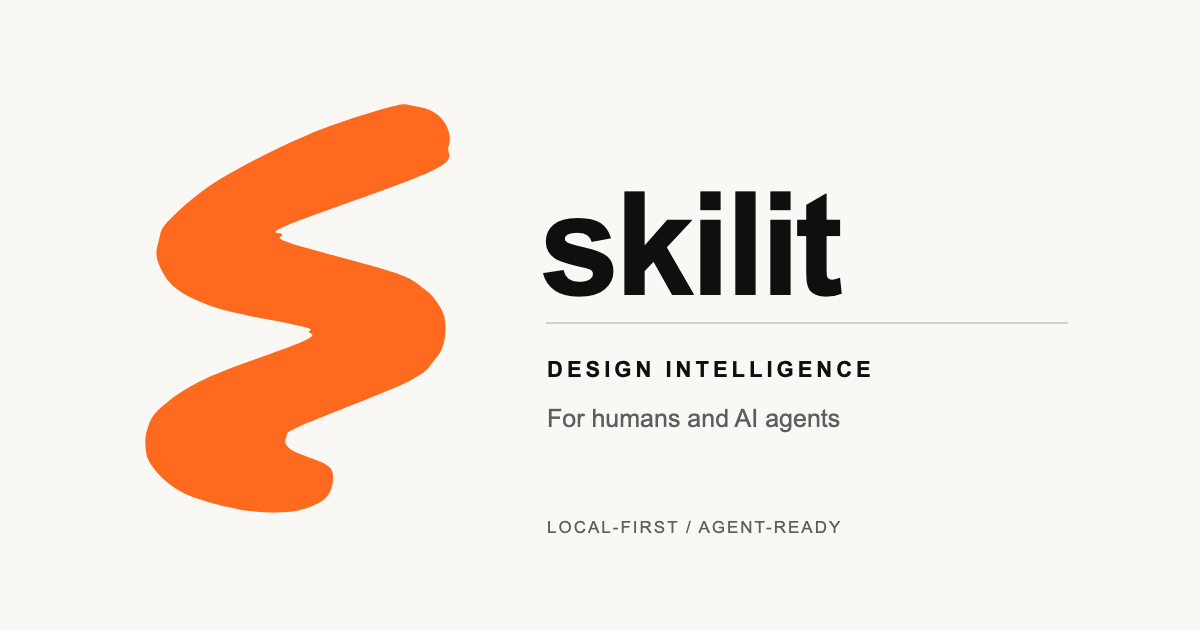
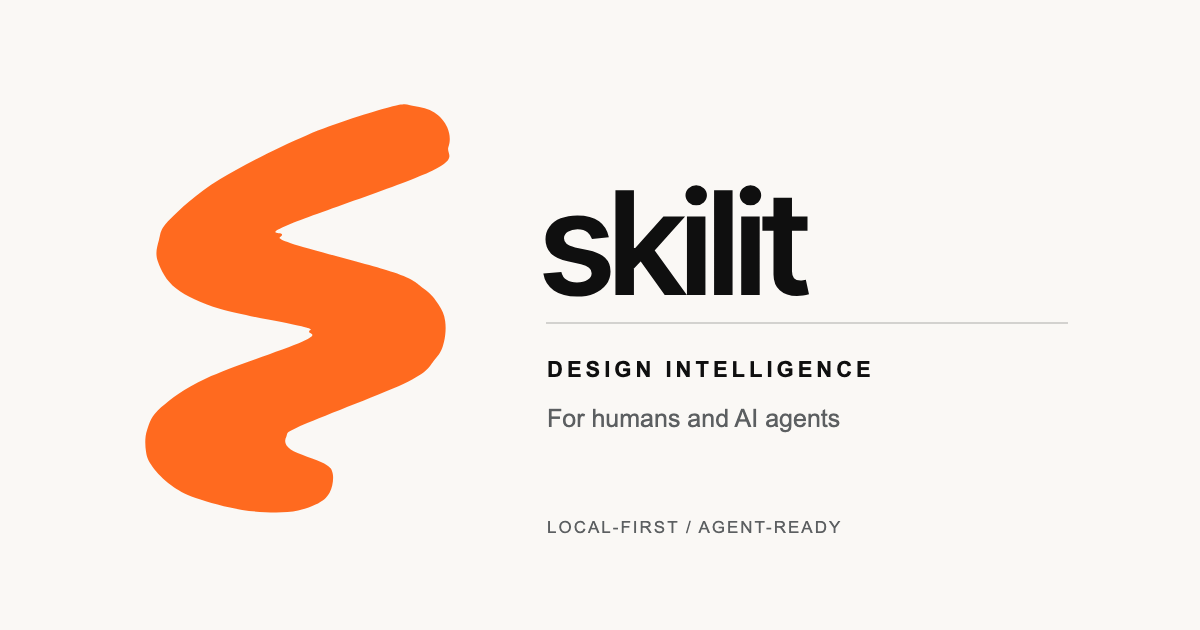
feat(brand): pin offline Inter Tight wordmark with licensed vector outlines

Changed region(s): [[0.4625, 0.3016, 0.7092, 0.4825]]

diff --git a/apps/web/app/globals.css b/apps/web/app/globals.css
@@ -1,3 +1,10 @@
+@font-face {
+  font-family: "Inter Tight Skilit";
+  src: url("/brand/inter-tight-latin-600.woff2") format("woff2");
+  font-style: normal;
+  font-weight: 600;
+  font-display: swap;
+}
 :root {
   color-scheme: light;
   --sk-ink: #0f0f0f;
@@ -26,7 +33,7 @@ button, input, select, textarea { font: inherit; }
   position: sticky; top: 0; height: 100vh; z-index: 4;
 }
 .sk-sidebar-head { padding: 4px 12px 34px; }
-.sk-brand { display: inline-flex; align-items: center; gap: 9px; text-decoration: none; color: #fbfaf7; font-size: 26px; letter-spacing: -.065em; font-weight: 650; }
+.sk-brand { font-family: "Inter Tight Skilit", -apple-system, BlinkMacSystemFont, "Segoe UI", sans-serif; display: inline-flex; align-items: center; gap: 9px; text-decoration: none; color: #fbfaf7; font-size: 26px; letter-spacing: -.065em; font-weight: 600; }
 .sk-brand-symbol { display: grid; place-items: center; width: 34px; height: 44px; flex: 0 0 34px; }
 .sk-brand-symbol img { object-fit: contain; }
 .sk-brand-caption { display: block; font-size: 9px; font-weight: 650; letter-spacing: .17em; color: #8e9096; margin: 16px 0 0 43px; white-space: nowrap; }
@@ -92,7 +99,7 @@ button, input, select, textarea { font: inherit; }
 .sk-principle-foot span { display: inline-flex; align-items: center; gap: 7px; font-size: 11px; font-weight: 650; color: #5c5e5f; }
 
 .sk-tool-section, .sk-workflow-section { padding-top: 52px; }
-.sk-section-heading { display: flex; justify-content: space-between; align-items: end; gap: 20px; margin-bottom: 23px; }
+.sk-section-heading { display: flex; justify-content: space-between; align-items: flex-end; gap: 20px; margin-bottom: 23px; }
 .sk-section-heading h2 { font-size: clamp(25px, 2.4vw, 36px); font-weight: 650; letter-spacing: -.05em; margin: 10px 0 8px; }
 .sk-section-heading p { font-size: 13px; color: #666460; line-height: 1.7; margin: 0; }
 .sk-section-counter { font-size: 10px; color: #64615e; font-weight: 750; letter-spacing: .12em; white-space: nowrap; }
@@ -189,7 +196,7 @@ button, input, select, textarea { font: inherit; }
   color: #62605d; font-size: 13px; line-height: 1.7;
 }
 .sk-page-content > main:not(.sk-dashboard) > section :is(form) {
-  display: flex; flex-wrap: wrap; gap: 12px; align-items: end; margin: 14px 0;
+  display: flex; flex-wrap: wrap; gap: 12px; align-items: flex-end; margin: 14px 0;
 }
 .sk-page-content > main:not(.sk-dashboard) > section :is(input, select, textarea) {
   min-height: 41px;

diff --git a/scripts/generate_skilit_brand.py b/scripts/generate_skilit_brand.py
@@ -6,8 +6,11 @@ reference on 2026-10-17. The points below are editable vector source data,
 not a reference to an external branding library.
 """
 from pathlib import Path
+import json
 
 ROOT = Path(__file__).resolve().parents[1]
+WORDMARK = json.loads((ROOT / "docs/brand/wordmark-inter-tight-600.json").read_text())
+WORDMARK_PATH = WORDMARK["path"]
 PUBLIC = ROOT / "apps/web/public/brand"
 PUBLIC.mkdir(parents=True, exist_ok=True)
 
@@ -58,8 +61,8 @@ for name, background, mark, text_color in [
     children = (
         f'<rect width="1024" height="384" fill="{background}"/>\n'
         f'<path d="{PATH}" transform="translate(126 78) scale(.60)" fill="{mark}"/>\n'
-        f'<text x="364" y="241" font-family="Arial, Helvetica, sans-serif" '
-        f'font-size="144" font-weight="600" letter-spacing="-5" fill="{text_color}">skilit</text>'
+        f'<path d="{WORDMARK_PATH}" transform="translate(364 241)" '
+        f'data-wordmark="skilit" fill="{text_color}"/>'
     )
     (PUBLIC / name).write_text(svg("0 0 1024 384", children, "Skilit logo"))
 
@@ -79,8 +82,8 @@ for name, background, mark, foreground, secondary in [
     children = (
         f'<rect width="1200" height="630" fill="{background}"/>\n'
         f'<path d="{PATH}" transform="translate(146 106) scale(1.08)" fill="{mark}"/>\n'
-        f'<text x="540" y="295" font-family="Arial, Helvetica, sans-serif" '
-        f'font-size="144" font-weight="600" letter-spacing="-5" fill="{foreground}">skilit</text>\n'
+        f'<path d="{WORDMARK_PATH}" transform="translate(540 295)" '
+        f'data-wordmark="skilit" fill="{foreground}"/>\n'
         f'<rect x="546" y="322" width="522" height="2" fill="{foreground}" opacity=".16"/>\n'
         f'<text x="547" y="377" font-family="Arial, Helvetica, sans-serif" '
         f'font-size="22" font-weight="700" letter-spacing="4" fill="{foreground}">DESIGN INTELLIGENCE</text>\n'

diff --git a/docs/brand/IDENTITY.md b/docs/brand/IDENTITY.md
@@ -86,11 +86,21 @@ not alternative brand colors. Use the orange accent sparingly.
 
 ## Typography and responsive behavior
 
-- The approved image proposes Inter Tight. A final embedded/distributable font must
-  be verified against its license and tested offline before claiming it is
-  implemented; no network font fetch or unverified font file is permitted.
-- Current vector lockups use a deterministic system-compatible sans-serif
-  fallback with deliberately tuned weight, size and tracking.
+- The lowercase wordmark is now drawn from **Inter Tight 600** at a pinned source
+  commit, with fixed SVG outlines in both official lockups and social previews;
+  rendering does not depend on installed system fonts or network requests.
+- The sidebar wordmark uses a tiny local Latin WOFF2 subset
+  (`apps/web/public/brand/inter-tight-latin-600.woff2`) with system fallback.
+  This is a locally hosted asset, not a Google Fonts web request.
+- `docs/brand/wordmark-inter-tight-600.json` records the original immutable
+  `google/fonts` commit and SHA-256 hashes, 600 weight, tracking and path data.
+  SIL OFL 1.1 and copyright are preserved (trailing spaces normalized) at
+  `docs/brand/licenses/Inter-Tight-OFL.txt`; the upstream is also pinned in
+  `UPSTREAMS.lock.yml`. The generated outline is a font derivative and remains
+  governed by the original font license. Trademarks are not transferred.
+- Both social PNGs are regenerated by `node scripts/render_skilit_social.mjs`
+  and carry the SHA-256 of their corresponding SVG. The Node contract test
+  verifies the hash to catch stale previews (not a pixel-level attestation).
 - The actual visual wordmark must be lowercase in logo assets and web chrome.
 - Large, balanced editorial headlines and smaller legible UI labels.
 - Sidebar layout on desktop; horizontal, scrollable navigation on mobile.
